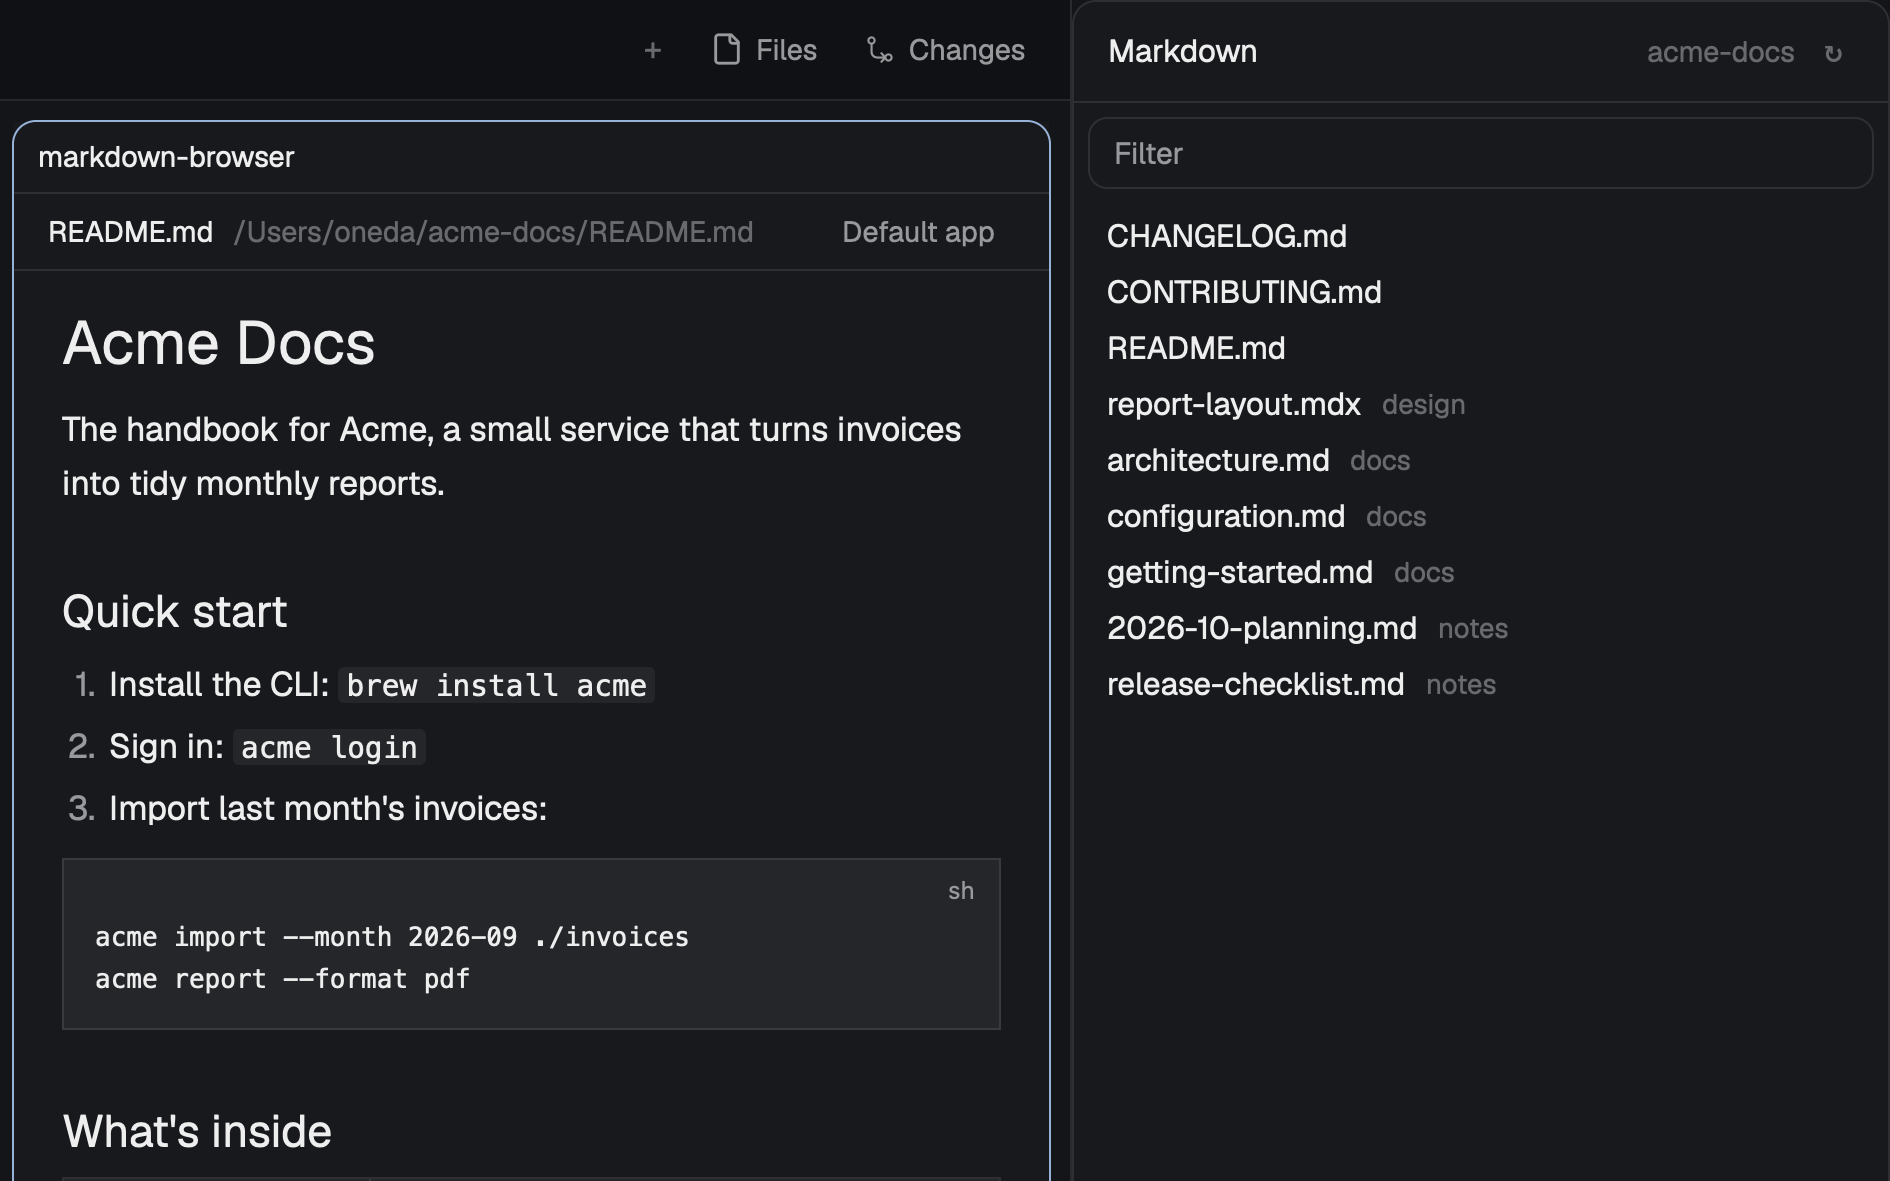
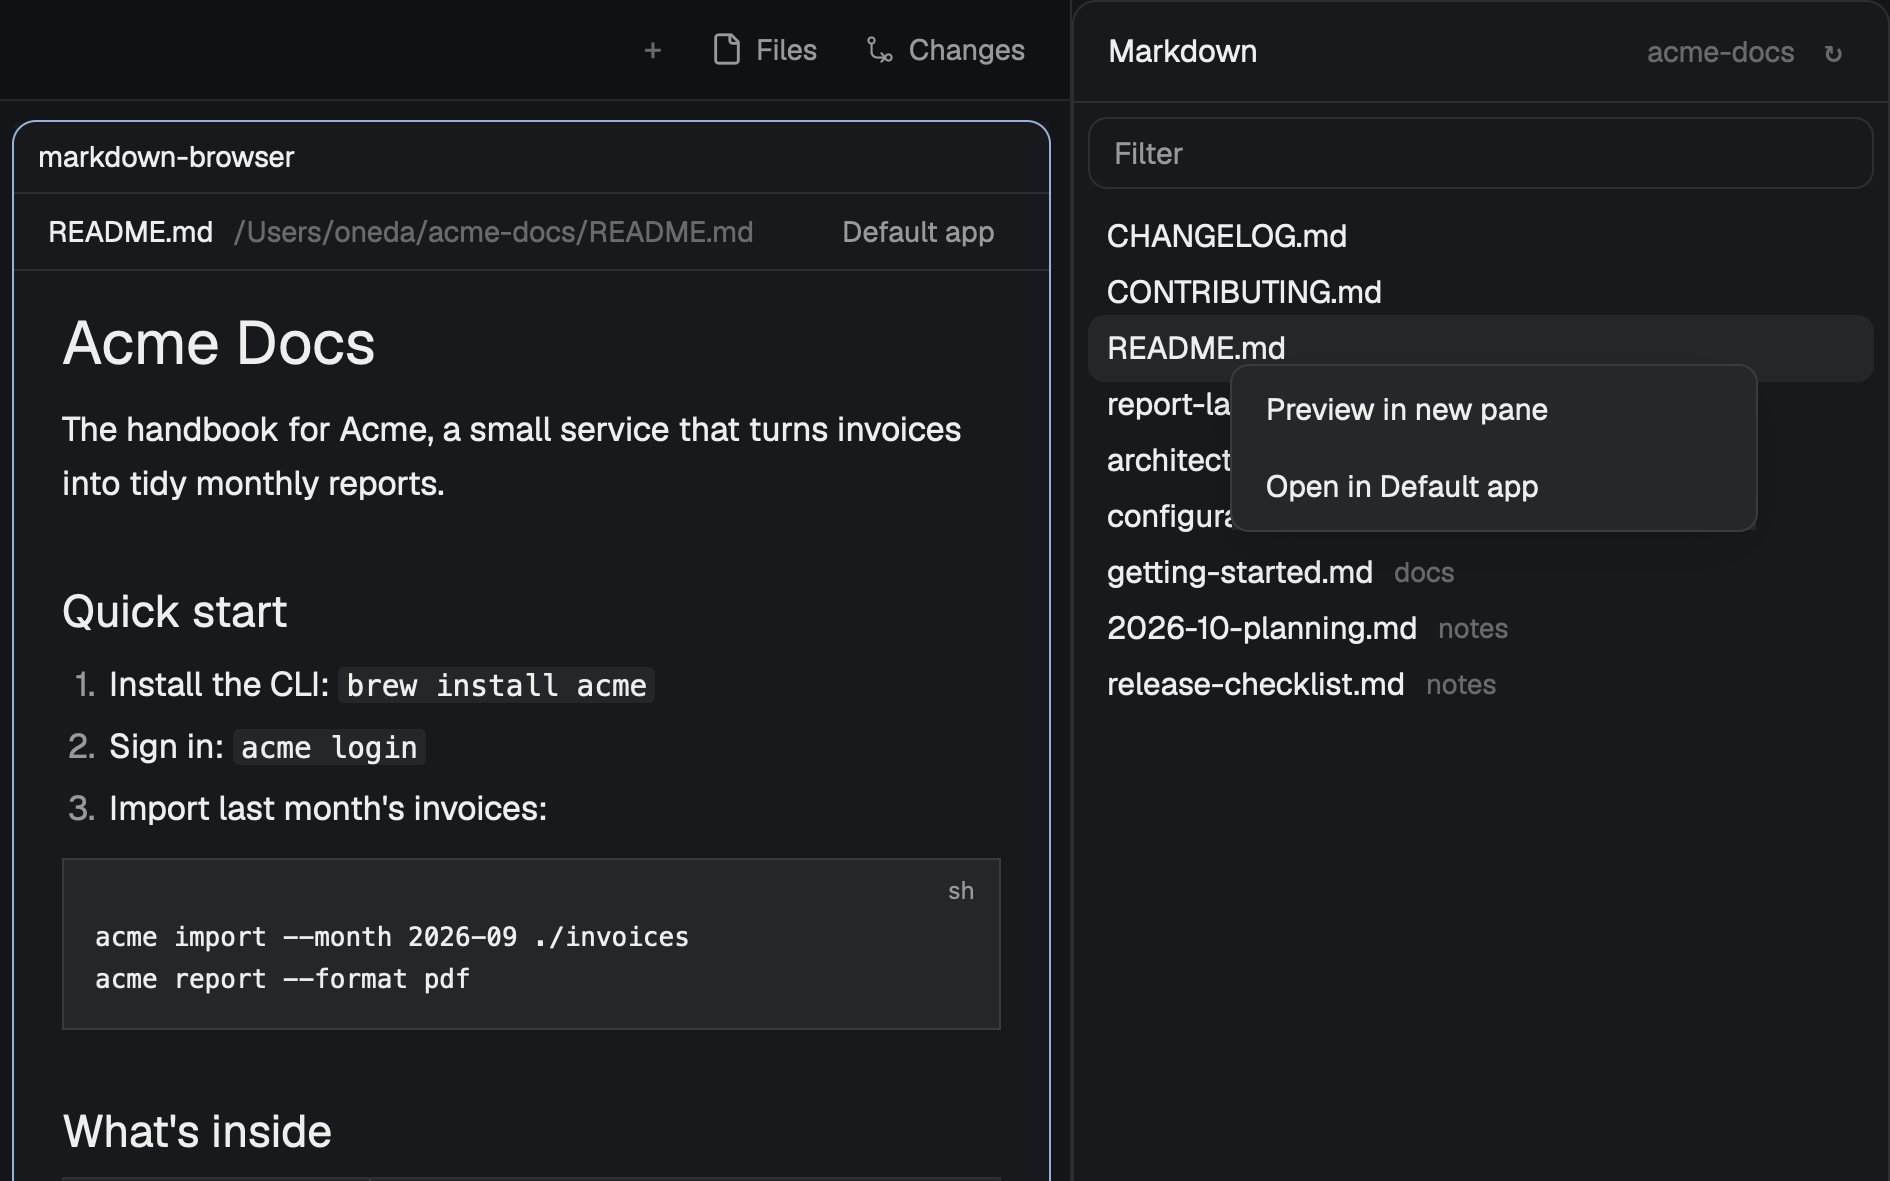
Size the right-click menu and keep its row marked while it's open
- Pass width 220 with height to openOverlay (it doesn't use mod.json's overlay size)
- The menu records its file in shared markdown-browser.menu (cleared in close()), and the
  list marks that row in hover color meanwhile
- preview.png: the menu opened on README.md, its row marked
- README / RECIPE: menu width in the Files snippet, the marked row, the new shared key

Claude-Session: https://claude.ai/code/session_017ow8nDpVz8t8njk2gNuqfQ

Changed region(s): [[0.6556, 0.3353, 0.8116, 0.4572]]

diff --git a/mods/markdown-browser/main.js b/mods/markdown-browser/main.js
@@ -16,6 +16,8 @@ const SHOW = "markdown-browser.show";
 // The preview pane focused last in each tab ({ tab: pane id }): a click in the list shows its
 // file there.
 const LAST = "markdown-browser.last";
+// The file whose right-click menu is open ({ file, on }): its row stays marked meanwhile.
+const MENU_FOR = "markdown-browser.menu";
 const shown = (slot) => (slot && shared(SHOW)?.[slot]) || null;
 const lastByTab = () => { const v = shared(LAST); return v && typeof v === "object" ? v : {}; };
 // The preview a click in the list replaces: the tab's focused one, else its last, else any.
@@ -25,9 +27,10 @@ function tabPreview(tab) {
 }
 // What decides the list besides Markdown files themselves.
 const IGNORES = /(^|[\\/])\.gitignore$/;
-// A list row, and the right-click menu: 12 + 32 per item (Preview in new pane, Open in Default app).
+// A list row, and the right-click menu: 220 wide (openOverlay doesn't take mod.json's width),
+// 12 + 32 per item tall (Preview in new pane, Open in Default app).
 const ROW = 28;
-const MENU = 12 + 32 * 2;
+const MENU = { width: 220, height: 12 + 32 * 2 };
 // The home folder, or one that holds it ("/", "/Users", "C:\").
 function aboveHome(root) {
   const h = home().replace(/[\\/]+$/, ""), r = root.replace(/[\\/]+$/, "");
@@ -54,7 +57,8 @@ export default class MarkdownBrowser extends View {
     this.file = file ?? null;
     this.on = on ?? null;
     this.overlay = overlay ?? null;
-    if (this.overlay) return;
+    // The menu marks its file's row while open, whoever opened it (the list, a Files clone).
+    if (this.overlay) return void setShared(MENU_FOR, { file: this.file, on: this.on });
     if (!this.file) return this.initList(cx);
 
     // Opened from the list: its slot, which shared SHOW can point at another file.
@@ -76,6 +80,13 @@ export default class MarkdownBrowser extends View {
         if (c === "open" && !this.on && this.isFocused()) this.open();
       }
     });
+  }
+
+  // The menu going (an item, Esc, a click beside it) unmarks its row, unless another menu
+  // has opened since.
+  async close() {
+    const menu = shared(MENU_FOR);
+    if (this.overlay && menu?.file === this.file && (menu.on ?? null) === this.on) setShared(MENU_FOR, null);
   }
 
   // A pane doesn't know its id; the list recorded it for this copy's slot.
@@ -333,12 +344,14 @@ export default class MarkdownBrowser extends View {
     const words = this.query.toLowerCase().split(/\s+/).filter(Boolean);
     const matches = (this.matches = words.length ? this.files.filter((rel) => words.every((w) => rel.toLowerCase().includes(w))) : this.files);
     if (this.at >= matches.length) this.at = Math.max(0, matches.length - 1);
-    // The file a click would replace, marked; the keyboard's row, while the filter has the keyboard.
+    // The file a click would replace, marked; in hover color, the keyboard's row while the filter
+    // has the keyboard, and the row whose menu is open.
     const target = tabPreview(focused()?.tab), current = target && shown(shared(SLOTS)?.[target.pane]);
+    const menu = shared(MENU_FOR);
     const row = (rel, i) => {
       const cut = Math.max(rel.lastIndexOf("/"), rel.lastIndexOf("\\"));
       const on = current?.file === join(this.root, rel) && (current.on ?? null) === this.on;
-      const at = this.typing && i === this.at;
+      const at = (this.typing && i === this.at) || (menu?.file === join(this.root, rel) && (menu.on ?? null) === this.on);
       return h_flex().h(ROW).px(8).gap(8).items_center().rounded(7).cursor_pointer()
         .when(on || at, (el) => el.bg(on ? t.selected : t.hover))
         .hover((s) => s.bg(on ? t.selected : t.hover))
@@ -382,7 +395,7 @@ export default class MarkdownBrowser extends View {
             .on_item_click((rel, cx) => cx.spawn((cx) => this.queuePreview(join(this.root, rel), this.on, cx)))
             .on_item_secondary_click((rel, _e, cx) => {
               cx.stop_propagation();
-              openOverlay({ mod: "markdown-browser", kind: "popup", height: MENU, props: { file: join(this.root, rel), on: this.on } });
+              openOverlay({ mod: "markdown-browser", kind: "popup", ...MENU, props: { file: join(this.root, rel), on: this.on } });
             }))
           .child(Scrollbar.vertical("mb-files").absolute().inset_0()));
   }

diff --git a/RECIPE.md b/RECIPE.md
@@ -69,7 +69,8 @@ pane. The row of the file that preview shows is marked in `selected` with a semi
 Switching files keeps the old text on screen until the new one is read (no flash), then scrolls
 to the top. Clicks are handled one at a time.
 
-**Right-click a row** for the menu. *Preview in new pane* always opens another preview, which
+**Right-click a row** for the menu; the row stays in `hover` color while the menu is open, and
+clears when it closes (an item, Esc, a click beside it). *Preview in new pane* always opens another preview, which
 gets the keyboard and becomes the tab's target. *Open in Default app* hands the file to the
 system's default app for `.md` (`open`, `rundll32 url.dll,FileProtocolHandler`, `xdg-open`),
 only if it is a regular Markdown file: not a folder, and not a `*.md` symlink to a program or
@@ -106,7 +107,9 @@ preview can't be replaced, a warning says it is still open beside the new one.
   `openOverlay`, `closeOverlay`, `notify`, `nextCommand`, `shared` / `setShared`.
 - **Shared state**: `markdown-browser.slots` (`{ pane id: slot }`), `markdown-browser.show`
   (`{ slot: { file, on } }`: what each preview shows), `markdown-browser.last`
-  (`{ tab: pane id }`: the last focused preview per tab).
+  (`{ tab: pane id }`: the last focused preview per tab), `markdown-browser.menu`
+  (`{ file, on }`: whose menu is open; the menu copy sets it in `init` and clears it in
+  `close()`, so the row is marked whoever opened the menu).
 - **gpui**: `TextView.markdown` for the body, `InputState` + `Input` for the filter,
   `v_virtual_list` + `VirtualListScrollHandle` + `Scrollbar.vertical` for the rows.
 - No art, fonts or network.
@@ -125,6 +128,8 @@ preview can't be replaced, a warning says it is still open beside the new one.
 - **`run()` doesn't wait** for the command to land: poll (`cx.sleep(25)`, up to a second) for
   the new pane, then for its focus, before the next step. Serialize clicks, or two splits each
   take the other's pane.
+- **`openOverlay` doesn't use `mod.json`'s `overlay` size**: pass `width: 220` and
+  `height: 76` with every call, or the menu opens far wider than its items.
 - **Closing a popup ends its tasks**: close the menu only after the preview or the app command
   has started, not when the item is pressed.
 - **Rows in a virtual list can't take `on_click`**: use the list's `on_item_click` and

diff --git a/README.md b/README.md
@@ -14,7 +14,7 @@ pane, and open them in your system's default app for Markdown, on macOS, Windows
   the chosen one, and Esc clears it. The file the tab's preview shows is highlighted.
 - **Click** a file to show it in the tab's preview pane (the focused one, else the one focused
   last; a new one if the tab has none). **Right-click** for *Preview in new pane* and
-  *Open in Default app*.
+  *Open in Default app*; the row stays highlighted while the menu is open.
 - **Preview pane**: renders the file and reloads it when it changes. Front matter is hidden,
   and in `.mdx` files so are top-level `import` / `export` lines (not those in code blocks).
   Its header has a *Default app* button.
@@ -115,8 +115,8 @@ Herdr: to pick up a newer Files panel, clone it again and repeat step 2.
    ```js
    .when(!entry.dir && /\.(md|mdx|markdown)$/i.test(entry.name), el => el.on_mouse_down("right", (_e, cx) => {
      cx.stop_propagation();
-     // 12 + 32 per item: Preview in new pane, Open in Default app.
-     openOverlay({ mod: "markdown-browser", kind: "popup", height: 12 + 32 * 2, props: { file: `${this.root}/${path}`, on: this.on } });
+     // 220 wide; 12 + 32 per item tall: Preview in new pane, Open in Default app.
+     openOverlay({ mod: "markdown-browser", kind: "popup", width: 220, height: 12 + 32 * 2, props: { file: `${this.root}/${path}`, on: this.on } });
    }))
    ```
 
